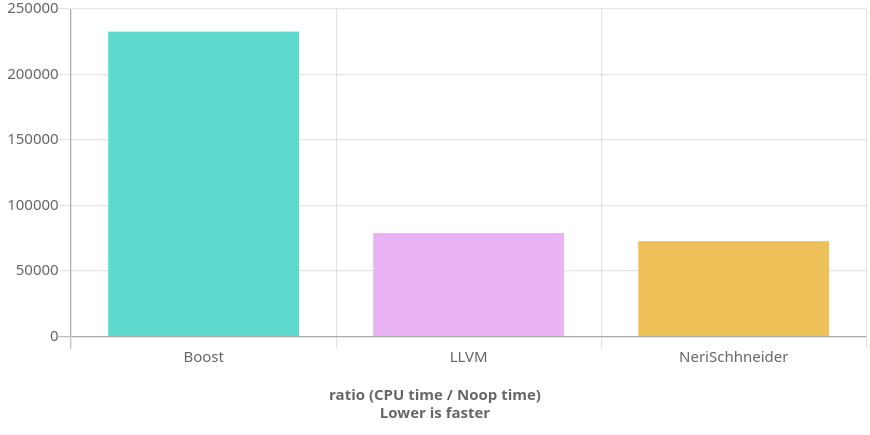
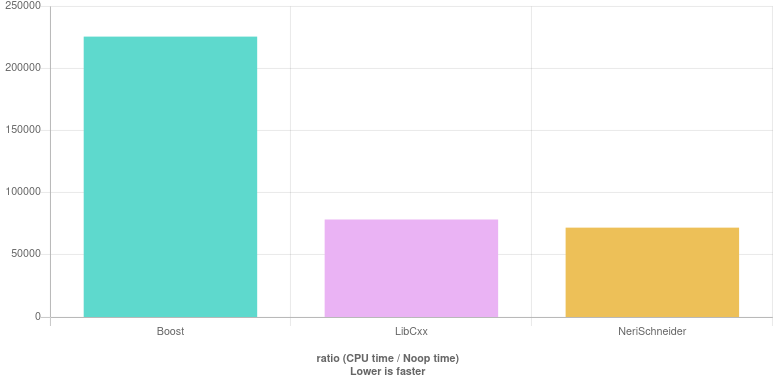
Updated charts.

diff --git a/benchmarks/to_rata_die.cpp b/benchmarks/to_rata_die.cpp
@@ -318,7 +318,7 @@ namespace hatcher {
 
 } // namespace hatcher
 
-namespace llvm {
+namespace libcxx {
 
   // Code in this namespace is subject to the following terms.
 
@@ -338,7 +338,7 @@ namespace llvm {
     return rata_die_t{__era * 146097 + static_cast<int>(__doe) - 719468};
   }
 
-} // namespace llvm
+} // namespace libcxx
 
 namespace reingold_dershowitz {
 
@@ -439,7 +439,7 @@ void ReingoldDershowitz(benchmark::State& state) {
 }
 BENCHMARK(ReingoldDershowitz);
 
-void GLIBC(benchmark::State& state) {
+void GLibC(benchmark::State& state) {
   for (auto _ : state) {
     for (auto const& u : dates) {
       auto n = glibc::to_rata_die(u);
@@ -447,7 +447,7 @@ void GLIBC(benchmark::State& state) {
     }
   }
 }
-BENCHMARK(GLIBC);
+BENCHMARK(GLibC);
 
 void DotNet(benchmark::State& state) {
   for (auto _ : state) {
@@ -489,15 +489,15 @@ void Boost(benchmark::State& state) {
 }
 BENCHMARK(Boost);
 
-void LLVM(benchmark::State& state) {
+void LibCxx(benchmark::State& state) {
   for (auto _ : state) {
     for (auto const& u : dates) {
-      auto n = llvm::to_rata_die(u);
+      auto n = libcxx::to_rata_die(u);
       benchmark::DoNotOptimize(n);
     }
   }
 }
-BENCHMARK(LLVM);
+BENCHMARK(LibCxx);
 
 void Baum(benchmark::State& state) {
   for (auto _ : state) {

diff --git a/benchmarks/to_date.cpp b/benchmarks/to_date.cpp
@@ -348,7 +348,7 @@ namespace hatcher {
 
 } // namespace hatcher
 
-namespace llvm {
+namespace libcxx {
 
   // Code in this namespace is subject to the following terms.
 
@@ -370,7 +370,7 @@ namespace llvm {
     return date_t{year_t(__yr + (__mth <= 2)), month_t(__mth), day_t(__dy)};
   }
 
-} // namespace llvm
+} // namespace libcxx
 
 namespace reingold_dershowitz {
 
@@ -474,7 +474,7 @@ void ReingoldDershowitz(benchmark::State& state) {
 }
 BENCHMARK(ReingoldDershowitz);
 
-void GLIBC(benchmark::State& state) {
+void GLibC(benchmark::State& state) {
   for (auto _ : state) {
     for (auto const n : rata_dies) {
       auto u = glibc::to_date(n);
@@ -482,7 +482,7 @@ void GLIBC(benchmark::State& state) {
     }
   }
 }
-BENCHMARK(GLIBC);
+BENCHMARK(GLibC);
 
 void DotNet(benchmark::State& state) {
   for (auto _ : state) {
@@ -524,15 +524,15 @@ void Boost(benchmark::State& state) {
 }
 BENCHMARK(Boost);
 
-void LLVM(benchmark::State& state) {
+void LibCxx(benchmark::State& state) {
   for (auto _ : state) {
     for (auto const n : rata_dies) {
-      auto u = llvm::to_date(n);
+      auto u = libcxx::to_date(n);
       benchmark::DoNotOptimize(u);
     }
   }
 }
-BENCHMARK(LLVM);
+BENCHMARK(LibCxx);
 
 void Baum(benchmark::State& state) {
   for (auto _ : state) {

diff --git a/benchmarks/last_day_of_month.cpp b/benchmarks/last_day_of_month.cpp
@@ -121,7 +121,7 @@ namespace boost {
 
 } // namespace boost
 
-namespace llvm {
+namespace libcxx {
 
   // Code in this namespace is subject to the following terms.
 
@@ -142,7 +142,7 @@ namespace llvm {
         __d[static_cast<unsigned>(month - 1)] : day_t{29};
   }
 
-} // namespace llvm
+} // namespace libcxx
 
 //----------------------------
 // Benchmark data
@@ -180,17 +180,17 @@ void Boost(benchmark::State& state) {
 }
 BENCHMARK(Boost);
 
-void LLVM(benchmark::State& state) {
+void LibCxx(benchmark::State& state) {
   for (auto _ : state) {
     for (std::int32_t i = 0; i < 16384; ++i) {
-      auto day = llvm::last_day_of_month(years[i], months[i]);
+      auto day = libcxx::last_day_of_month(years[i], months[i]);
       benchmark::DoNotOptimize(day);
     }
   }
 }
-BENCHMARK(LLVM);
+BENCHMARK(LibCxx);
 
-void NeriSchhneider(benchmark::State& state) {
+void NeriSchneider(benchmark::State& state) {
   for (auto _ : state) {
     for (std::int32_t i = 0; i < 16384; ++i) {
       auto day = neri_schneider::last_day_of_month(years[i], months[i]);
@@ -198,4 +198,4 @@ void NeriSchhneider(benchmark::State& state) {
     }
   }
 }
-BENCHMARK(NeriSchhneider);
+BENCHMARK(NeriSchneider);

diff --git a/benchmarks/is_leap_year.cpp b/benchmarks/is_leap_year.cpp
@@ -67,7 +67,7 @@ namespace ubiquitous {
     return y % 4 == 0 && (y % 100 != 0 || y % 400 == 0);
   }
 
-} // namespace typical
+} // namespace ubiquitous
 
 //----------------------------
 // Benchmark data
@@ -96,7 +96,7 @@ void Ubiquitous(benchmark::State& state) {
 }
 BENCHMARK(Ubiquitous);
 
-void NeriSchhneider_mod(benchmark::State& state) {
+void NeriSchneider_mod(benchmark::State& state) {
   for (auto _ : state) {
     for (auto const& year : years) {
       auto b = neri_schneider::is_leap_year_mod(year);
@@ -104,7 +104,7 @@ void NeriSchhneider_mod(benchmark::State& state) {
     }
   }
 }
-BENCHMARK(NeriSchhneider_mod);
+BENCHMARK(NeriSchneider_mod);
 
 void NeriSchneider_mcomp(benchmark::State& state) {
   for (auto _ : state) {

diff --git a/README.md b/README.md
@@ -12,27 +12,28 @@ the following C++20's functions:
     std::chrono::year_month_day::operator sys_days()             // a.k.a. to_rata_die
     std::chrono::year_month_day::year_month_day(const sys_days&) // a.k.a. to_date
 
-Our implementations are benchmarked against counterparts, including some of popular and widely used
-libraries (glibc, .NET, Boost and LLVM). Results, as per charts below, suggest that our
-implementations perform considerably faster than others.
+Our implementations are benchmarked against counterparts, including some of the most widely used
+C, C++ and C# libraries (glibc, .NET, Boost and libc++) and our own implementations of algorithms
+found in academic literature. Charts below suggest that our algorithms perform considerably faster
+than others.
 
 ![Benchmarks](https://github.com/cassioneri/calendar/blob/master/benchmarks/benchmarks.png)
 
-[is_leap_year](https://quick-bench.com/q/CnSnzJTarIKBvtqlnbNHqKU5h_o): NeriSchneider_mcomp is 3.1x
+[is_leap_year](https://quick-bench.com/q/RvIyns6SRK_toLH31jELkLFZqwM): NeriSchneider_mcomp is 3.1x
 faster than Ubiquitous (the implementation used virtually everywhere.) NeriSchneider_mod is 1.9x
 faster than Ubiquitous.
 
-[last_day_of_month](https://quick-bench.com/q/-nzPvHw621sPVaDdHTlLoHoV8Lc): NeriSchneider is 3.2x
-faster than Boost and 1.1x faster than LLVM.
+[last_day_of_month](https://quick-bench.com/q/3JTVUY8rBBMxPgfdzkh30DwUaXI): NeriSchneider is 3.1x
+faster than Boost and 1.1x faster than libc++.
 
-[to_rata_die](https://quick-bench.com/q/zAtSlIlm8MiDqKK573pMxulH-b4): NeriSchneider is 3.2x faster
-than ReingoldDershowitz, 2x faster than glibc, 1.8x faster than .NET, 2.3x faster than Hatcher, 2.4x
-faster than FliegelFlandern, 1.7x faster than Boost, 1.7x faster than LLVM and 1.5x faster than
+[to_rata_die](https://quick-bench.com/q/uwkg8IoTCpX7dK8sAHiglfoZXiU): NeriSchneider is 3.2x faster
+than ReingoldDershowitz, 2x faster than glibc, 1.8x faster than .NET, 2.3x faster than Hatcher, 2.2x
+faster than FliegelFlandern, 1.7x faster than Boost, 1.7x faster than libc++ and 1.5x faster than
 Baum.
 
-[to_date](https://quick-bench.com/q/LT0085FvE-39Xm-yj2-XwzWsPrI): NeriSchneider is 6.8x faster than
-ReingoldDershowitz, 6.2x faster than glibc, 3.4x faster than .NET, 3.7x faster than Hatcher, 2.8x
-faster than FliegelFlandern, 2.6x faster than Boost, 2.2x faster than LLVM and 1.5x faster than
+[to_date](https://quick-bench.com/q/A1iZvi5Zl8aEmn05bhZ6a0zuxRU): NeriSchneider is 6.7x faster than
+ReingoldDershowitz, 6.1x faster than glibc, 3.4x faster than .NET, 2.8x faster than Hatcher, 3.4x
+faster than FliegelFlandern, 2.6x faster than Boost, 2.2x faster than libc++ and 1.5x faster than
 Baum.
 
 **Disclaimer**: Benchmarks above compare implementations as of 2020-May-02. They might have been
